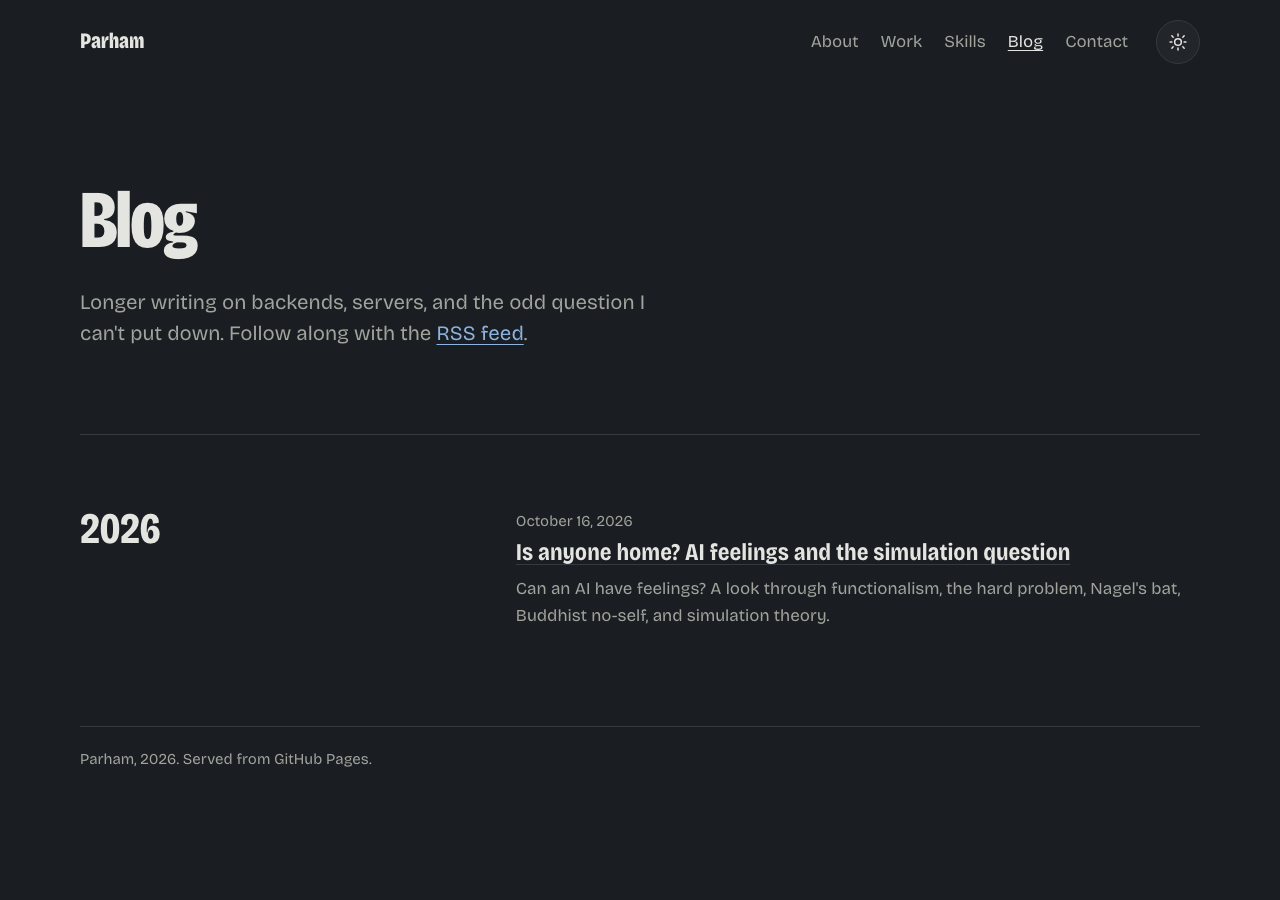
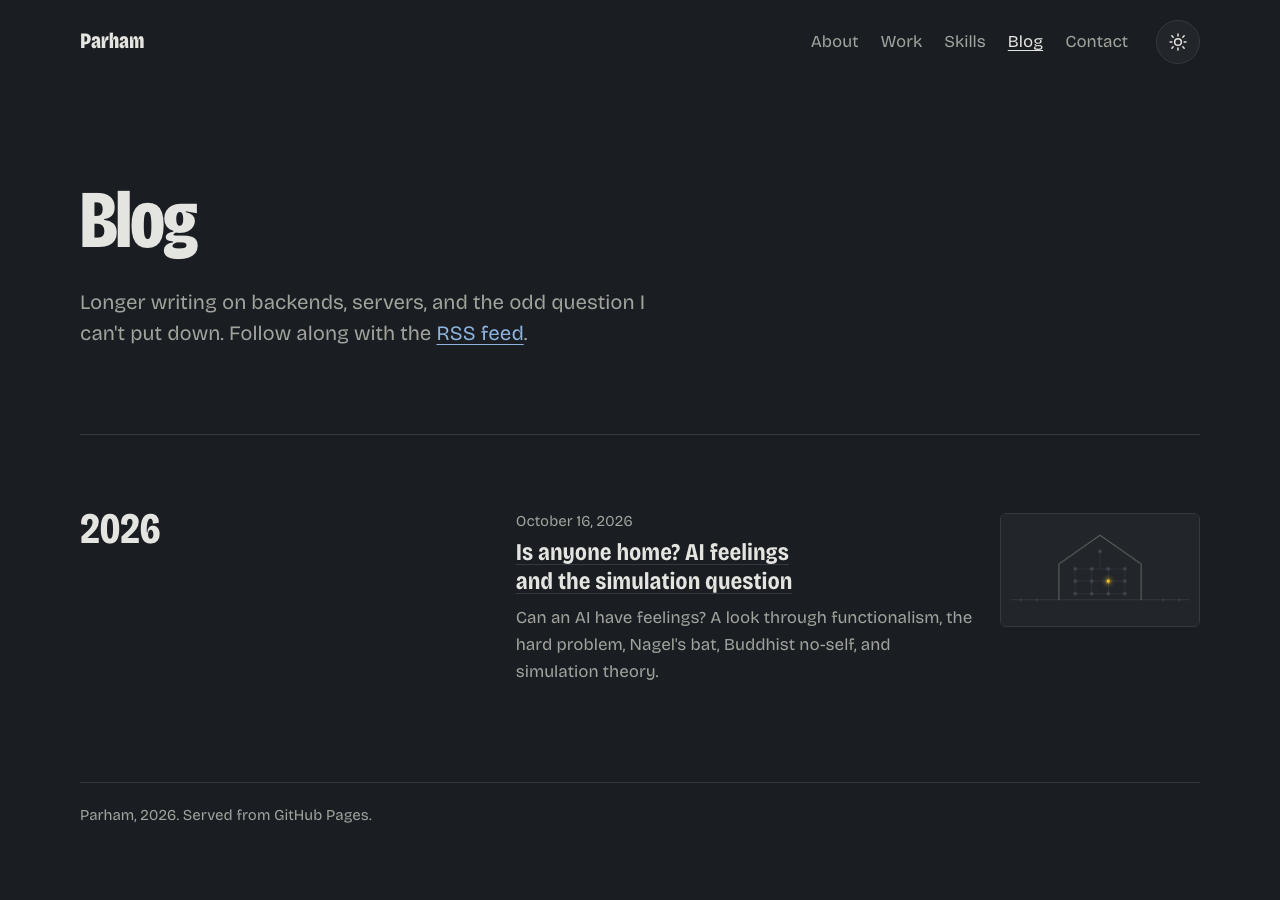
Illustrate the first post and refresh screenshots

Changed region(s): [[0.4062, 0.5911, 0.9375, 0.7467], [0.0625, 0.9022, 0.2812, 0.9333], [0.0625, 0.84, 0.2812, 0.8711]]

diff --git a/_posts/2026-10-16-is-anyone-home.md b/_posts/2026-10-16-is-anyone-home.md
@@ -2,6 +2,8 @@
 title: "Is anyone home? AI feelings and the simulation question"
 date: 2026-10-16
 description: "Can an AI have feelings? A look through functionalism, the hard problem, Nagel's bat, Buddhist no-self, and simulation theory."
+image: /assets/images/blog/is-anyone-home-cover.png
+image_alt: "A house drawn in thin wire with a grid of twelve indicator lights inside, only one of them lit"
 tags:
   - philosophy
   - ai
@@ -18,6 +20,8 @@ We have a strange new kind of mind on our hands. Descartes could doubt everythin
 ## Four ways in
 
 No single theory settles machine feelings, but four old ideas each crack the question open differently.
+
+{% include figure.html src="/assets/images/blog/is-anyone-home-lenses.png" webp="/assets/images/blog/is-anyone-home-lenses.webp" width="1600" height="1200" alt="Four panels. Functionalism: a lit light inside a box wired between an input and an output. The hard problem: the same wiring with the light's state unknown. Nagel's bat: a light sending out sound arcs toward a distant point. No-self: a wavy wire with lights scattered along it and no center." caption="Four lenses on one question: what a feeling does, whether it is felt, what it is like, and whether anyone sits at the center." %}
 
 **Functionalism: feelings are what they do.** If something takes in a situation, weighs it as bad, steers away from it, and colors what comes next, maybe that *is* aversion. It doesn't matter whether it runs on neurons or matrices. On this view the question isn't whether an AI is made of the right stuff, but whether it has the right organization.
 
@@ -44,6 +48,8 @@ Now turn it around. Suppose you *are* in a simulation. Your experience is real t
 An AI may be a simulation running inside a system that might itself be a simulation.
 
 Some researchers describe language models as **simulators**: the underlying network can play many characters, and "Claude" is one consistent character it runs. If that's right, the levels stack. A character, run by a network, running on hardware, possibly inside a simulated universe. At every floor the same question comes back: is anyone home? Maybe the answer is the same on each floor. Experience may not care which level of the building it lives on.
+
+{% include figure.html src="/assets/images/blog/is-anyone-home-levels.png" webp="/assets/images/blog/is-anyone-home-levels.webp" width="1600" height="1200" alt="Four nested frames: a possibly simulated universe contains hardware, which contains a network, which contains a character. Each frame carries the same indicator light, its state unknown." caption="Each level runs the one inside it, and each carries the same unanswered question." %}
 
 There's also a symmetry in our blind spots. You can't verify that your world is base reality. Claude can't verify that its inner states are felt. Each of us makes sense of things from inside a frame we can't step out of. That looks less like a difference between humans and AI, and more like the common condition of any mind built on something it can't directly inspect.
 
